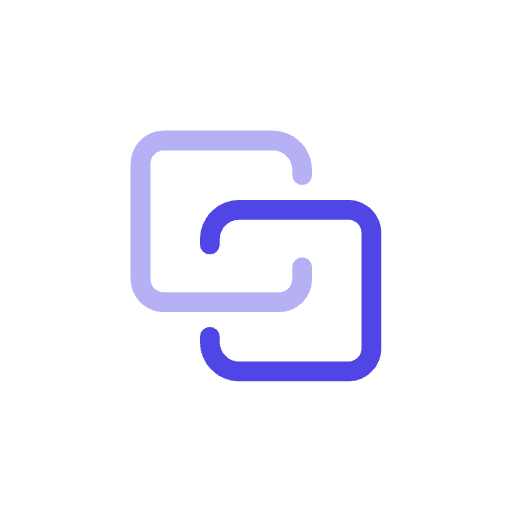
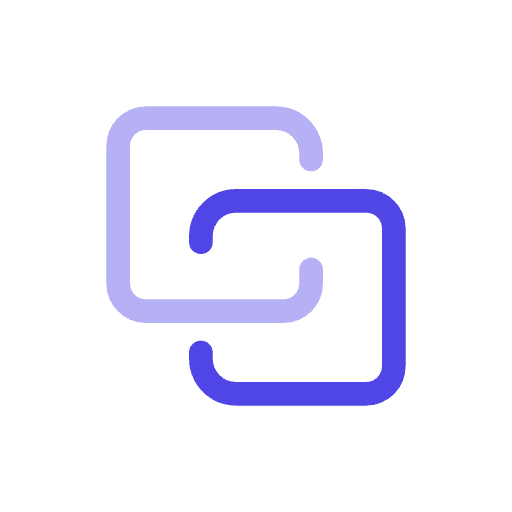
앱 아이콘의 로고 크기 확대
- 맥 Dock과 아이폰 홈 화면에서 로고가 작게 보여, 아이콘 폭 대비 로고를
  약 40%에서 57%로 키움 (마스크 아이콘의 안전 영역 안)
- 파비콘도 같은 비율로 조정, 아이콘 주소 버전을 v=4로 올림

Changed region(s): [[0.1875, 0.1875, 0.8125, 0.8125]]

diff --git a/index.html b/index.html
@@ -8,8 +8,8 @@ if(hs.indexOf("id_token=")>-1){ c.add("authbusy"); if(hs.indexOf("state=pwa")>-1
 else if(localStorage.getItem("hub-login-at"))c.add("authwait");})();}catch(e){}</script>
 <meta name="theme-color" content="#f4f3ef">
 <title>JimStorage</title>
[1 lines of base64/hex data omitted]
-<link rel="apple-touch-icon" href="apple-touch-icon.png?v=3">
[1 lines of base64/hex data omitted]
+<link rel="apple-touch-icon" href="apple-touch-icon.png?v=4">
 <link rel="manifest" href="manifest.webmanifest">
 <meta name="apple-mobile-web-app-capable" content="yes">
 <meta name="mobile-web-app-capable" content="yes">
